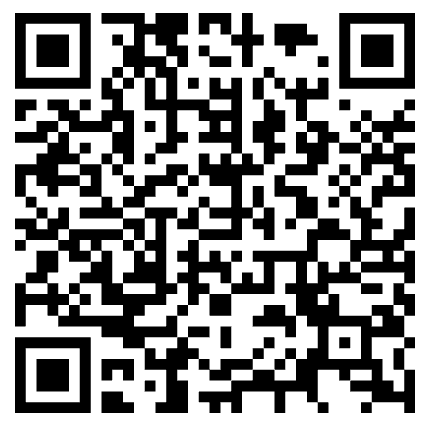
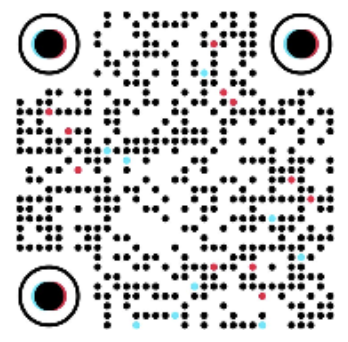
Add files via upload

diff --git a/index.html b/index.html
@@ -562,9 +562,9 @@ function playVideoFromItem(item){
 /* ===== 特效資料 ===== */
 const EFFECT_INFO = Object.freeze({
   title: '鹿🦌超好笑特效',
-  url: 'https://www.tiktok.com/?schema_type=33&object_id=preview_wEnw62RCN8wGnjzs2xwf6W',
+  url: 'https://vm.tiktok.com/ZMAXNfQ4v/',
   qr:  'QR Code.png',
-  demo:'預設示範照.png'
+  demo:'鹿🦌超好笑特效.png'
 });
 (function setupEffectPanel(){
   const play=$('#effect-play');
